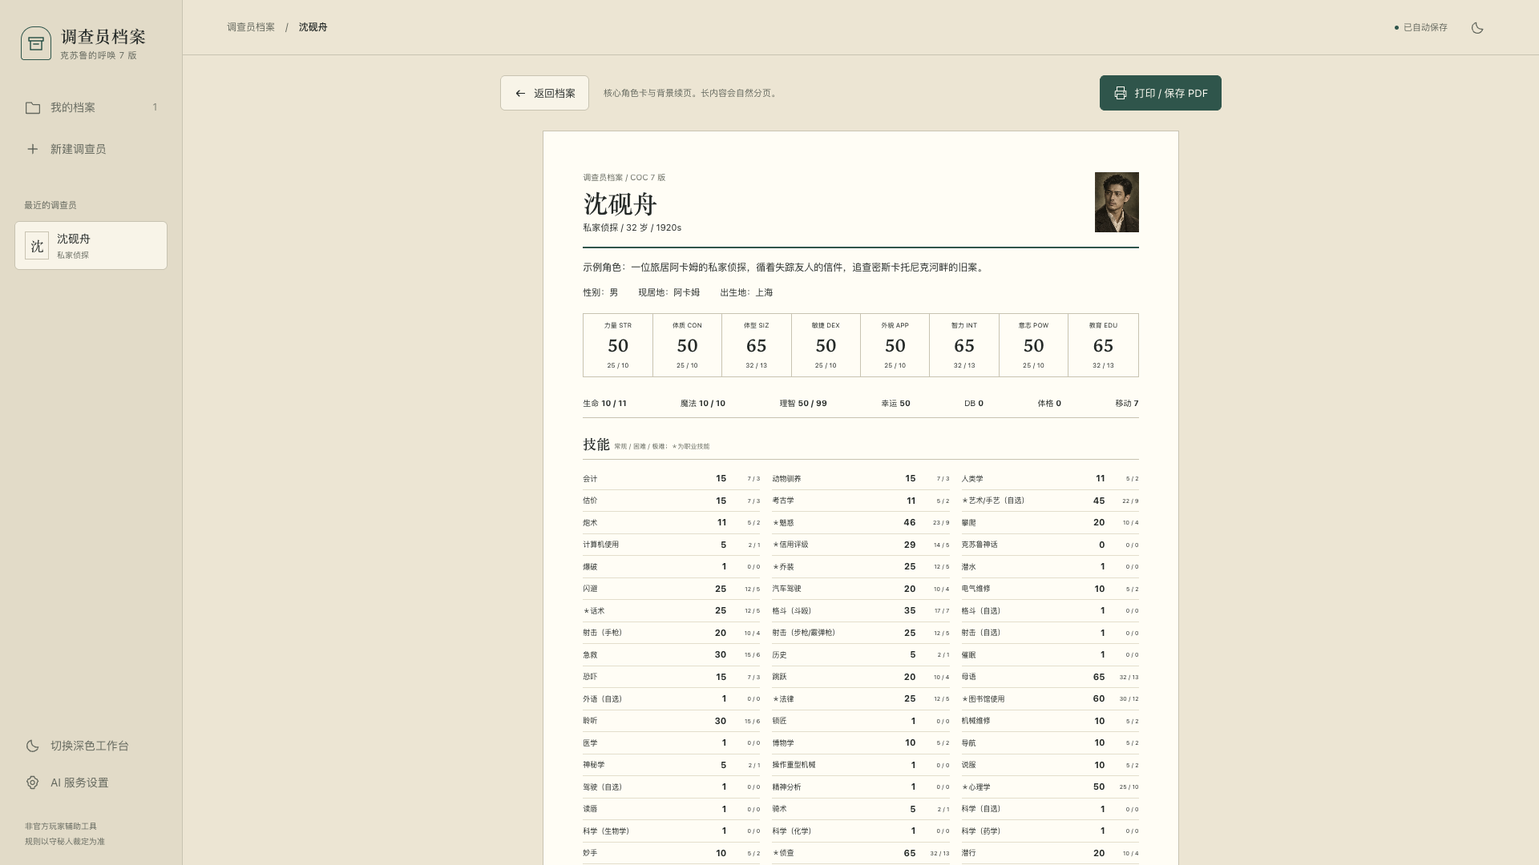
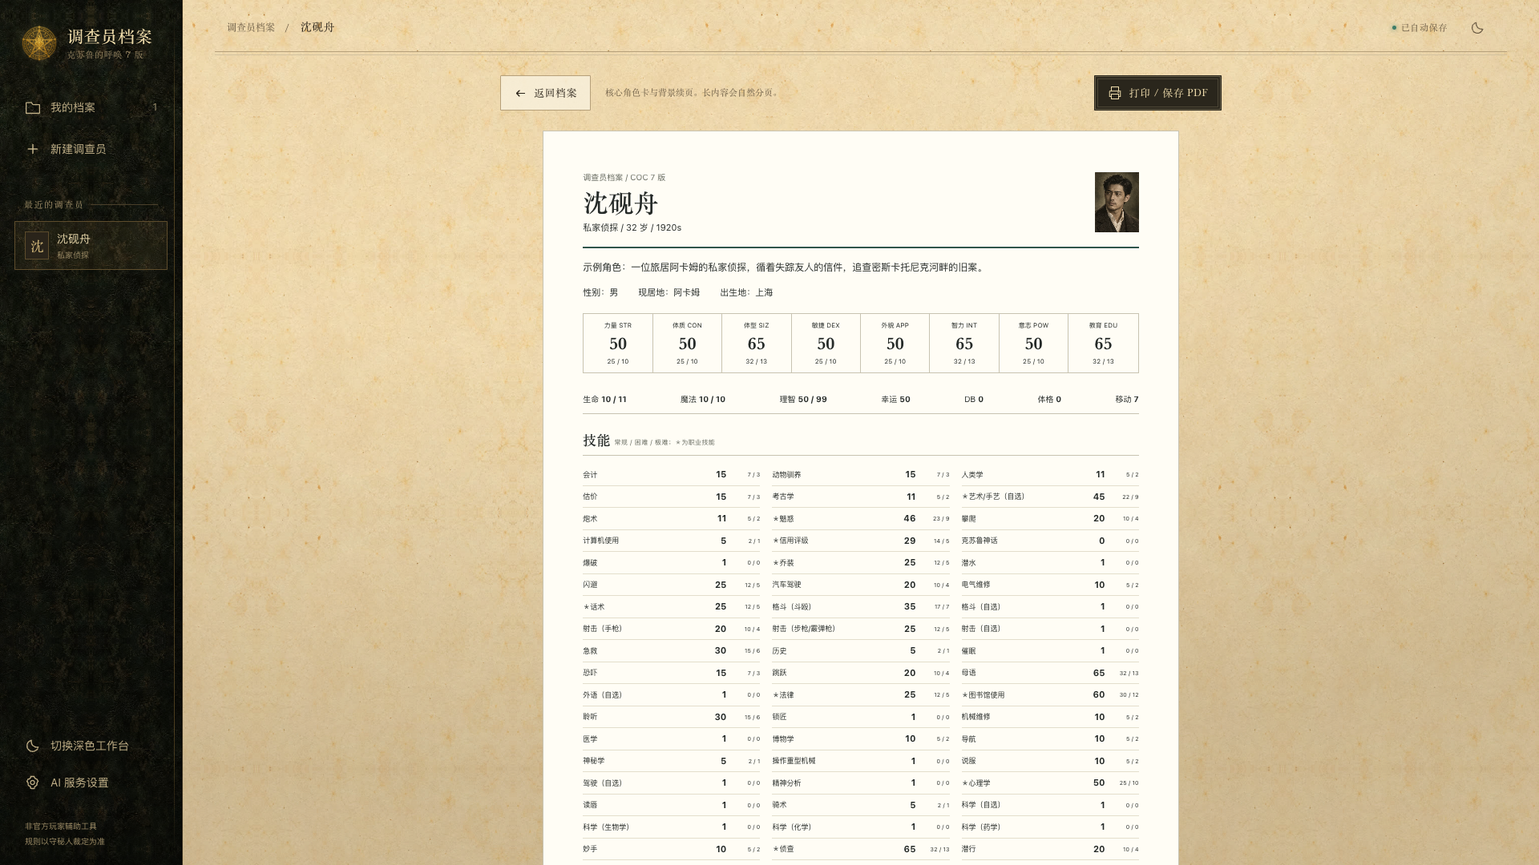
按玩家使用重写说明并更新新版界面截图
README突出建卡、跑团、存档与在线体验；开发部署说明独立成文，记录GitHub Pages切换要求。更新18张卷宗风1080p截图和agent交接索引。

diff --git a/page-overview/index.html b/page-overview/index.html
@@ -1,9 +1,9 @@
 <!doctype html>
 <html lang="zh-CN"><head><meta charset="utf-8"><meta name="viewport" content="width=device-width,initial-scale=1"><title>调查员档案 · 页面总览</title><style>
 *{box-sizing:border-box}body{margin:0;background:#ece5d3;color:#252a28;font:14px/1.7 -apple-system,BlinkMacSystemFont,"PingFang SC","Microsoft YaHei",sans-serif}main{max-width:1700px;margin:auto;padding:44px 36px 60px}header{display:flex;align-items:end;justify-content:space-between;gap:30px;padding-bottom:24px;border-bottom:1px solid #c8c3b1;margin-bottom:28px}h1{font:600 34px/1.4 "Songti SC",Georgia,serif;margin:0 0 10px}header p{margin:0;color:#64685e}.links{display:flex;gap:20px;white-space:nowrap}a{color:#2f554b;text-underline-offset:4px}.gallery{display:grid;grid-template-columns:repeat(3,minmax(0,1fr));gap:24px}article{background:#f8f4e8;border:1px solid #c8c3b1;overflow:hidden}.image-link{display:block;background:#d9d4c3}.image-link img{display:block;width:100%;height:auto;aspect-ratio:16/9;object-fit:contain;border-bottom:1px solid #c8c3b1}.caption{display:flex;align-items:start;gap:12px;padding:16px}.number{font-variant-numeric:tabular-nums;color:#8a6c31;font-size:12px;padding-top:2px}.caption>div{flex:1;min-width:0}h2{font-size:15px;font-weight:600;margin:0 0 6px}h2 a{text-decoration:none}p{font-size:12px;color:#64685e;margin:0 0 10px}code{font-size:10px;color:#64685e;overflow-wrap:anywhere}.theme{font-size:10px;border:1px solid #c8c3b1;padding:1px 6px;color:#64685e;white-space:nowrap}footer{font-size:12px;color:#64685e;margin-top:28px;padding-top:20px;border-top:1px solid #c8c3b1}a:focus-visible{outline:3px solid #2f554b;outline-offset:4px}@media(max-width:1150px){.gallery{grid-template-columns:repeat(2,minmax(0,1fr))}}@media(max-width:650px){main{padding:25px 16px}header{display:block}.links{margin-top:15px}.gallery{grid-template-columns:1fr}h1{font-size:28px}}
-</style></head><body><main><header><div><h1>调查员档案 · 页面总览</h1><p>18 张主要页面截图 · 1920 × 1080 PNG · 点击图片打开原图</p><p>版本 5c5c370 · 虚构示例数据 · 静态截图，不展示动效</p></div><nav class="links"><a href="README.md">页面与源码索引</a><a href="1080p/manifest.json">机器可读索引</a></nav></header><section class="gallery"><article><a class="image-link" href="1080p/01-library-paper.png" target="_blank" rel="noopener"><img src="1080p/01-library-paper.png" width="1920" height="1080" loading="eager" alt="档案库 · 纸质截图" /></a><div class="caption"><span class="number">01</span><div><h2><a href="1080p/01-library-paper.png" target="_blank" rel="noopener">档案库 · 纸质</a></h2><p>首页街景、最近角色、档案卡与新建入口。</p><code>01-library-paper.png</code></div><span class="theme">纸质</span></div></article>
+</style></head><body><main><header><div><h1>调查员档案 · 页面总览</h1><p>18 张主要页面截图 · 1920 × 1080 PNG · 点击图片打开原图</p><p>版本 faee721 · 虚构示例数据 · 静态截图，不展示动效</p></div><nav class="links"><a href="README.md">页面与源码索引</a><a href="1080p/manifest.json">机器可读索引</a></nav></header><section class="gallery"><article><a class="image-link" href="1080p/01-library-paper.png" target="_blank" rel="noopener"><img src="1080p/01-library-paper.png" width="1920" height="1080" loading="eager" alt="档案库 · 纸质截图" /></a><div class="caption"><span class="number">01</span><div><h2><a href="1080p/01-library-paper.png" target="_blank" rel="noopener">档案库 · 纸质</a></h2><p>限阅书库、最近卷宗、档案卡与新建入口。</p><code>01-library-paper.png</code></div><span class="theme">纸质</span></div></article>
 <article><a class="image-link" href="1080p/02-library-dark.png" target="_blank" rel="noopener"><img src="1080p/02-library-dark.png" width="1920" height="1080" loading="eager" alt="档案库 · 深色截图" /></a><div class="caption"><span class="number">02</span><div><h2><a href="1080p/02-library-dark.png" target="_blank" rel="noopener">档案库 · 深色</a></h2><p>相同档案库的深色工作台主题。</p><code>02-library-dark.png</code></div><span class="theme">深色</span></div></article>
-<article><a class="image-link" href="1080p/03-create-ai-paper.png" target="_blank" rel="noopener"><img src="1080p/03-create-ai-paper.png" width="1920" height="1080" loading="eager" alt="AI 建卡截图" /></a><div class="caption"><span class="number">03</span><div><h2><a href="1080p/03-create-ai-paper.png" target="_blank" rel="noopener">AI 建卡</a></h2><p>完整建卡弹窗、调查桌美术、人物概念与服务设置入口。</p><code>03-create-ai-paper.png</code></div><span class="theme">纸质</span></div></article>
+<article><a class="image-link" href="1080p/03-create-ai-paper.png" target="_blank" rel="noopener"><img src="1080p/03-create-ai-paper.png" width="1920" height="1080" loading="eager" alt="AI 建卡截图" /></a><div class="caption"><span class="number">03</span><div><h2><a href="1080p/03-create-ai-paper.png" target="_blank" rel="noopener">AI 建卡</a></h2><p>完整建卡弹窗、烛光档案、人物概念与服务设置入口。</p><code>03-create-ai-paper.png</code></div><span class="theme">纸质</span></div></article>
 <article><a class="image-link" href="1080p/04-create-random-paper.png" target="_blank" rel="noopener"><img src="1080p/04-create-random-paper.png" width="1920" height="1080" loading="lazy" alt="规则掷骰建卡截图" /></a><div class="caption"><span class="number">04</span><div><h2><a href="1080p/04-create-random-paper.png" target="_blank" rel="noopener">规则掷骰建卡</a></h2><p>随机创建方式与展开的建卡规则。</p><code>04-create-random-paper.png</code></div><span class="theme">纸质</span></div></article>
 <article><a class="image-link" href="1080p/05-create-ai-dark.png" target="_blank" rel="noopener"><img src="1080p/05-create-ai-dark.png" width="1920" height="1080" loading="lazy" alt="AI 建卡 · 深色截图" /></a><div class="caption"><span class="number">05</span><div><h2><a href="1080p/05-create-ai-dark.png" target="_blank" rel="noopener">AI 建卡 · 深色</a></h2><p>深色主题的建卡弹窗与调查桌静物。</p><code>05-create-ai-dark.png</code></div><span class="theme">深色</span></div></article>
 <article><a class="image-link" href="1080p/06-play-character-paper.png" target="_blank" rel="noopener"><img src="1080p/06-play-character-paper.png" width="1920" height="1080" loading="lazy" alt="跑团 · 角色截图" /></a><div class="caption"><span class="number">06</span><div><h2><a href="1080p/06-play-character-paper.png" target="_blank" rel="noopener">跑团 · 角色</a></h2><p>状态、档案肖像、常用技能、基础属性及检定台。</p><code>06-play-character-paper.png</code></div><span class="theme">纸质</span></div></article>

diff --git a/README.md b/README.md
@@ -1,103 +1,86 @@
 # 调查员档案
 
-COC 7 版的建卡与个人跑团工具。支持本地多角色档案、AI 人设生成、规则掷骰、手动编辑、技能检定、状态记录和打印。纸质调查档案与深色工作台可随时切换，电脑、手机均可使用。
+用于《克苏鲁的呼唤》第七版的建卡与个人跑团工具。从一句人物构想到完整角色卡，再到开团时查技能、掷骰和记状态，都在同一份档案里完成。
 
-新版仍然是静态网站，没有账号、云端存档或作者的 AI 后台。档案写入当前浏览器，电脑和手机通过 JSON 文件转移。
+支持电脑和手机，提供纸质卷宗、深色工作台两套主题。角色保存在当前浏览器，无需注册账号。
 
-## 开始使用
+**[在线体验](https://noechou.github.io/coc-investigator-generator/)** · [本地运行与部署](docs/DEVELOPMENT.md) · [全部页面截图](page-overview/README.md)
 
-1. 新建调查员，选择 AI 人设、规则掷骰或手动建卡。
-2. 在草稿中检查身份、属性、职业技能和背景，修改会自动保存。
-3. 完成建卡后打开跑团页，点击技能或属性即可检定；生命、魔法、理智、幸运由玩家明确调整。
-4. 定期导出单卡或备份整个档案库。不要只依赖浏览器缓存。
+> 当前线上仍为旧版，新版前端已合入本地主分支，尚未发布。下方截图及后文使用说明均对应尚未上线的新版。
 
-没有 API 密钥也能使用全部手动、随机和跑团功能。首页可以创建一份明确标注的示例角色。
+## 界面预览
 
-## AI 服务
+纸质卷宗：限阅书库与调查员档案库。
 
-在“AI 服务设置”填写自己的密钥。提供 DeepSeek 预设，也可填写兼容 Chat Completions 的 HTTPS 服务地址和模型名。支持根地址、`/v1` 地址和完整的 `/chat/completions` 地址，本机服务可使用 localhost HTTP。
+![纸质主题档案库](page-overview/1080p/01-library-paper.png)
 
-AI 根据人物概念提出属性、职业、技能和背景，程序计算年龄修正、点数预算与衍生值。结果首先保存为草稿；AI 属性标记为“人设生成”，不冒充随机骰点。可以取消、重试或单独重写背景，现有角色不会被运行中的请求逐步覆盖。
+深色工作台：当前状态、常用技能和检定记录。
 
-密钥只保留在当前页面会话中，不写入角色、浏览器持久设置、日志或导出文件。非密钥的服务地址和模型偏好会记住。刷新页面后须重新输入密钥。
+![深色主题跑团面板](page-overview/1080p/07-play-character-dark.png)
 
-自定义服务必须允许浏览器直连。认证、限流、跨域、超时或格式错误会明确提示；网站没有公共转发服务。默认模型可以编辑，实际可用性由服务提供方决定。
+## 先建一张卡
 
-**真实 AI 联调尚未完成**：代码已通过模拟请求测试，未使用真实密钥调用供应商。不能据此保证所有自定义服务的模型参数和跨域配置都可用。
+打开首页，点击“新建调查员”，选择适合自己的方式：
 
-## 存档与旧版迁移
+| 方式 | 怎么用 |
+|---|---|
+| AI 人设生成 | 写一句人物概念，由 AI 提出属性、职业、技能、装备和背景，生成后逐项审阅。需要自带 API 密钥。 |
+| 规则掷骰 | 按 7 版骰式生成属性，保留骰点与年龄修正记录，再选择职业、分配技能。 |
+| 手动建卡 | 从空白卡开始，自己填写属性、职业、专长和背景。 |
 
-- 档案保存在 IndexedDB，多角色独立保存。只有事务完成后才显示已保存。
-- 旧版 `version: 3` JSON 可以导入。同源发现旧 `coc7-investigator-sheet-v1` 存档时提供迁移入口，不删除旧数据。
-- 当前资源、成长点、自定义技能、空装备、长文本与头像会尽量无损保留。旧版手填派生值和不一致数据会保留说明，不重新掷年龄修正。
-- 不同浏览器、不同域名或端口的存储互不相通，需要文件导出导入。
-- 同一角色已存在时默认另存副本；明确选择整卡替换才覆盖。不会自动合并两台设备各自的修改。
-- 导入先验证完整文件，损坏或超过容量的文件会报错，不静默截短文字。单次最多导入 200 份档案。
+例如：“一位回到阿卡姆的战地医生，每周四都会收到失踪战友寄来的信。”
 
-## 运行与构建
+生成结果先存为草稿，可以随时继续编辑。程序计算职业点、兴趣点和衍生属性，并提示待检查项；确认后点击“完成建卡”。初始技能上限可以按团内规则调整。
 
-需要 Node.js 22.12+ 或 Node.js 24。
+AI 的属性会标为“人设生成”，不代表真实掷骰。没有密钥也能使用随机、手动建卡和跑团功能；想先熟悉界面，可以打开首页的示例角色。
 
-安装依赖：
+## 开团时这样用
+
+- **查卡与检定**：收藏常用技能，搜索完整技能表；点击技能、属性、理智或幸运即可检定，查看成功等级。支持奖励骰、惩罚骰和普通骰子。
+- **记录状态**：调整生命、魔法、理智和幸运，支持撤销。普通检定不会自动扣除资源。
+- **整理线索**：在调查笔记里记录线索、人物关系和待办，为检定记录补充备注。
+- **带走角色卡**：导出 JSON，或打开打印预览，用浏览器打印、保存 PDF。
+
+界面加入了档案纸与皮革材质、状态徽记、检定反馈和理智变化的氛围效果。AI 或掷骰生成角色后会播放“帷幕破碎”揭示动画，点击可跳过；系统开启“减少动态效果”时会关闭动效。这些视觉提示不代替守秘人的规则裁定。
+
+## 存档在哪里？换设备怎么办？
+
+修改会自动保存在**当前浏览器**。清除网站数据、换浏览器或换设备，都可能使你无法直接看到原来的角色，所以请定期备份。
+
+电脑和手机之间转移角色：在原设备导出 JSON，将文件发送到另一台设备，再从首页“导入档案”。也可以备份整个档案库。
+
+同一角色已存在时，导入默认另存副本；只有明确选择“整卡替换”才覆盖。两台设备各自的修改不会自动合并。
+
+旧版导出的 `version: 3` JSON 可以迁入，保留当前状态、成长点、自定义技能和背景。同一浏览器、同一网站发现旧存档时也会提供入口，原存档不会删除。遇到需要保留的旧版手填数值，会附上迁移说明。
+
+## AI 怎么配置？
+
+打开“AI 服务设置”，填写自己的密钥。内置 DeepSeek 预设，也支持自定义兼容 Chat Completions 的服务地址和模型名。
+
+请求由浏览器直接发送到你选择的服务，人物概念等生成所需资料也会一并发送。密钥仅保留在当前页面会话中，不进入角色档案、备份或导出文件；刷新后需重新填写。服务地址和模型偏好会记住。
+
+自定义服务需要允许浏览器直连。认证、额度、跨域或超时问题会在页面提示。生成内容可以修改，人物背景也可以单独重写。
+
+**验证状态：**生成流程已通过模拟请求验证，真实 AI 服务尚未联调。不同服务的模型与跨域设置仍需实际确认。
+
+## 自己运行或继续开发
+
+需要 Node.js 22.12+。安装和启动：
 
 ```bash
 npm ci
 ```
 
-开发预览：
-
 ```bash
 npm run dev
 ```
 
-默认访问 `http://127.0.0.1:5173/`。旧版直接双击 HTML 的运行方式不适用于新版源码。
+访问 `http://127.0.0.1:5173/`。新版源码需要构建，不能沿用旧版“双击 HTML”的运行方式。
 
-生成静态网站：
+完整的构建、GitHub Pages 发布、测试命令和目录说明见 [开发与部署文档](docs/DEVELOPMENT.md)。供 agent 接手的 [页面总览](page-overview/README.md) 包含 18 张原始 1920×1080 截图，以及页面与源码的对应关系。
 
-```bash
-npm run build
-```
+## 项目范围与许可
 
-构建结果在 `dist/`。可以把该目录部署到 GitHub Pages、Netlify、Vercel 或自己的静态服务器。Vite 使用相对资源路径，页面使用 hash 路由，适配 GitHub Pages 的仓库子路径。
+这是个人建卡和跑团辅助工具，暂不提供账号云同步、多人房间、地图战棋或完整战斗自动裁定。角色规则以正式规则书和守秘人裁定为准。
 
-本地查看构建结果：
-
-```bash
-npm run preview
-```
-
-Windows 可以运行 `scripts/start-server.cmd`，它会启动开发服务器。
-
-## 验证
-
-```bash
-npm test
-```
-
-```bash
-npm run typecheck
-```
-
-测试覆盖规则边界、职业和技能预算、奖惩骰的 `00=100`、旧卡迁移、备份往返、事务失败、跨标签页版本冲突，以及 AI 模拟请求的格式、取消、超时和两阶段生成。
-
-## 页面截图总览
-
-供其他 agent 查看界面：[页面与源码索引](page-overview/README.md)、[离线截图画廊](page-overview/index.html)。包含 18 张原始 1920×1080 PNG，覆盖主要页面与两套主题。
-
-## 项目结构
-
-- `src/domain/`：角色结构、规则目录、预算、检定与数据验证。
-- `src/storage/`：本地数据库、导入导出和旧卡迁移。
-- `src/ai/`：模型请求、生成草稿和背景重写。
-- `src/features/`：档案库、建卡、编辑、跑团与打印。
-- `src/styles/`：双主题、响应式布局和打印样式。
-- `public/art/`：原创生成的街景、调查桌与可选档案肖像，见 [素材说明](public/art/ASSETS.md)。系统开启“减少动态效果”时会关闭界面动效。
-- `legacy/`：旧版静态实现，仅供核对和迁移参考，不作为新版入口。
-
-## 规则与限制
-
-本项目不是完整的多人跑团平台。首版不提供云同步、房间、地图战棋、战斗自动裁定或守秘人团务管理。检定不会自动扣除资源，重掷、幸运消费及其他裁定由玩家和守秘人决定。
-
-7 版年龄修正中，20–39 岁进行一次 EDU 增强，40–49 岁两次，50–59 岁三次，60 岁起四次。初始技能上限默认 75，可按团内规则调整；成长点与初始点数分开记录。具体规则以正式规则书与守秘人裁定为准。
-
-本项目为非官方玩家辅助工具，与 Chaosium 无关联。许可证为 MIT，见 [LICENSE](LICENSE)。
+本项目为非官方玩家工具，与 Chaosium 无关联。使用 MIT 许可证，见 [LICENSE](LICENSE)。

diff --git a/docs/DEVELOPMENT.md b/docs/DEVELOPMENT.md
@@ -1,0 +1,98 @@
+# 开发与部署
+
+## 本地运行
+
+推荐 Node.js 24，最低 22.12。
+
+安装依赖：
+
+```bash
+npm ci
+```
+
+启动开发服务器：
+
+```bash
+npm run dev
+```
+
+访问 `http://127.0.0.1:5173/`。Windows 可运行 `scripts/start-server.cmd`。新版由 Vite 构建，直接双击源码中的 `index.html` 无法正常运行。
+
+## 构建静态网站
+
+```bash
+npm run build
+```
+
+产物在 `dist/`，可以部署到 GitHub Pages、Netlify、Vercel 或自己的静态服务器。程序使用相对资源路径和 hash 路由，支持仓库子路径。
+
+本地查看生产构建：
+
+```bash
+npm run preview
+```
+
+默认访问 `http://127.0.0.1:4173/`。预览命令用于本地检查，不是长期运行的生产服务。
+
+## GitHub Pages
+
+仓库已有 [发布工作流](../.github/workflows/pages.yml)：推送 `main` 或手动触发后，安装依赖、运行已有测试、构建 `dist/` 并发布。
+
+**当前仓库仍沿用旧版分支发布方式。** 发布新版前，需要在 GitHub 仓库的 Settings → Pages 中，把 Source 改为 **GitHub Actions**。不要直接发布源码根目录；源码中的 TypeScript 模块需要先构建。
+
+Pages 地址继续使用：
+
+<https://noechou.github.io/coc-investigator-generator/>
+
+切换发布方式不应改变站点地址。角色存储与浏览器、网站来源有关；换域名或端口后不会自动读取原站点数据，请先导出备份。
+
+## 检查命令
+
+运行已有规则、存储与 AI 模拟测试：
+
+```bash
+npm test
+```
+
+类型检查：
+
+```bash
+npm run typecheck
+```
+
+生产构建也包含类型检查。当前测试覆盖年龄边界、预算、奖惩骰、旧卡迁移、备份、事务冲突，以及 AI 的格式错误、超时和取消；真实供应商调用与模型可用性仍需密钥联调。
+
+界面仍在迭代，按当前协作约定只做必要前端检查，不因样式调整扩展测试范围。
+
+## 目录
+
+| 路径 | 内容 |
+|---|---|
+| `src/domain/` | 角色结构、技能职业资料、规则计算、检定和校验 |
+| `src/storage/` | IndexedDB、自动保存、导入导出和旧卡迁移 |
+| `src/ai/` | 服务适配、提示词、生成草稿和背景重写 |
+| `src/features/` | 档案库、建卡、编辑、跑团和打印页面 |
+| `src/app/App.tsx` | 页面路由、公共状态、设置和导入流程 |
+| `src/styles/eldritch.css` | 当前卷宗风视觉、材质与理智联动 |
+| `src/components/VeilReveal.tsx` | 角色生成后的帷幕破碎动效 |
+| `src/assets/art/` | 当前 UI 的打包美术素材 |
+| `public/art/` | 肖像预设、此前素材和 [资产说明](../public/art/ASSETS.md) |
+| `page-overview/` | 原始 1080p 页面截图、画廊和 agent 交接索引 |
+| `legacy/` | 旧版源码，供规则和迁移核对 |
+
+生成原图位于本地 `art-source/`，不进入 git 或站点构建。截图使用虚构示例数据，无真实密钥。
+
+## 修改时保留的约定
+
+- 角色数据版本为 4，旧版 `version: 3` 文件通过迁移层导入；导出与恢复不可静默裁剪内容。
+- 职业预算、技能总值、武器成功率和衍生值从共同规则读取，避免存储多份可漂移的副本。
+- 初始值与跑团当前值分开。编辑属性不能恢复已消耗的资源，成长不应改变初始点数预算。
+- 真实持久化完成后才显示已保存。保存失败时保留页面内修改，允许导出；多标签页写入需检查版本。
+- AI 在独立草稿里生成，确认后写入角色；密钥不持久化、不进入日志和导出。
+- 关闭或跳过动效不应影响生成数据；支持系统“减少动态效果”。打印保持白纸可读。
+
+## 旧版迁移边界
+
+同源旧键为 `coc7-investigator-sheet-v1`。读取和迁移不得删除它，也不得重新执行年龄修正。旧当前／原始数值、自定义技能、成长和长文本需要保留；无法直接映射的数值写入说明供玩家核对。
+
+导入同 ID 角色默认另存副本，只有玩家主动选择整卡替换才覆盖。导入批次先完整验证，再用事务写入，失败时回滚。

diff --git a/page-overview/README.md b/page-overview/README.md
@@ -3,7 +3,7 @@
 本目录用于让其他 agent 快速了解当前界面。先看截图索引，再按需要读取对应源码。
 
 - 截图规格：**1920 × 1080 像素，PNG，浏览器原始输出**，未放大、未拼接。
-- 版本基线：`5c5c370`，包含雨夜街景、调查桌和预设肖像。
+- 版本基线：`faee721`，已合入克苏鲁卷宗风新前端，包含限阅书库、烛光档案、状态徽记和双主题材质。
 - 数据：隔离浏览器中的虚构示例角色，不使用玩家现有存档或真实密钥。
 - 范围：桌面主要页面与关键弹窗；长页面拍摄首屏，打印截图并非完整 PDF。
 - 动画：截图停在稳定状态，不能通过静态图片判断动效。
@@ -12,9 +12,9 @@
 
 | 截图 | 页面 | 主要内容 |
 |---|---|---|
-| [01-library-paper](1080p/01-library-paper.png) | 档案库 · 纸质 | 首页街景、最近角色、档案卡与新建入口 |
+| [01-library-paper](1080p/01-library-paper.png) | 档案库 · 纸质 | 限阅书库、最近卷宗、档案卡与新建入口 |
 | [02-library-dark](1080p/02-library-dark.png) | 档案库 · 深色 | 相同内容的深色工作台 |
-| [03-create-ai-paper](1080p/03-create-ai-paper.png) | AI 建卡 | 调查桌美术、人物概念、年代与服务配置入口 |
+| [03-create-ai-paper](1080p/03-create-ai-paper.png) | AI 建卡 | 烛光档案、人物概念、年代与服务配置入口 |
 | [04-create-random-paper](1080p/04-create-random-paper.png) | 规则掷骰建卡 | 随机创建与展开的建卡规则 |
 | [05-create-ai-dark](1080p/05-create-ai-dark.png) | AI 建卡 · 深色 | 深色建卡弹窗 |
 | [06-play-character-paper](1080p/06-play-character-paper.png) | 跑团 · 角色 | 当前状态、肖像、常用技能、属性和检定台 |
@@ -42,6 +42,6 @@
 | 打印 | `src/features/print/PrintSheet.tsx` |
 | 应用壳、设置和导入 | `src/app/App.tsx` |
 | 主题与布局 | `src/styles/tokens.css`、`app.css` |
-| 美术和动效 | `src/styles/atmosphere.css`、`public/art/` |
+| 美术和动效 | `src/styles/eldritch.css`、`src/components/VeilReveal.tsx`、`src/assets/art/` |
 
 这些截图用于视觉交接，不代表一次新增的功能测试或真实 AI 联调。后续修改界面后应重新截图，并更新版本号与索引。
